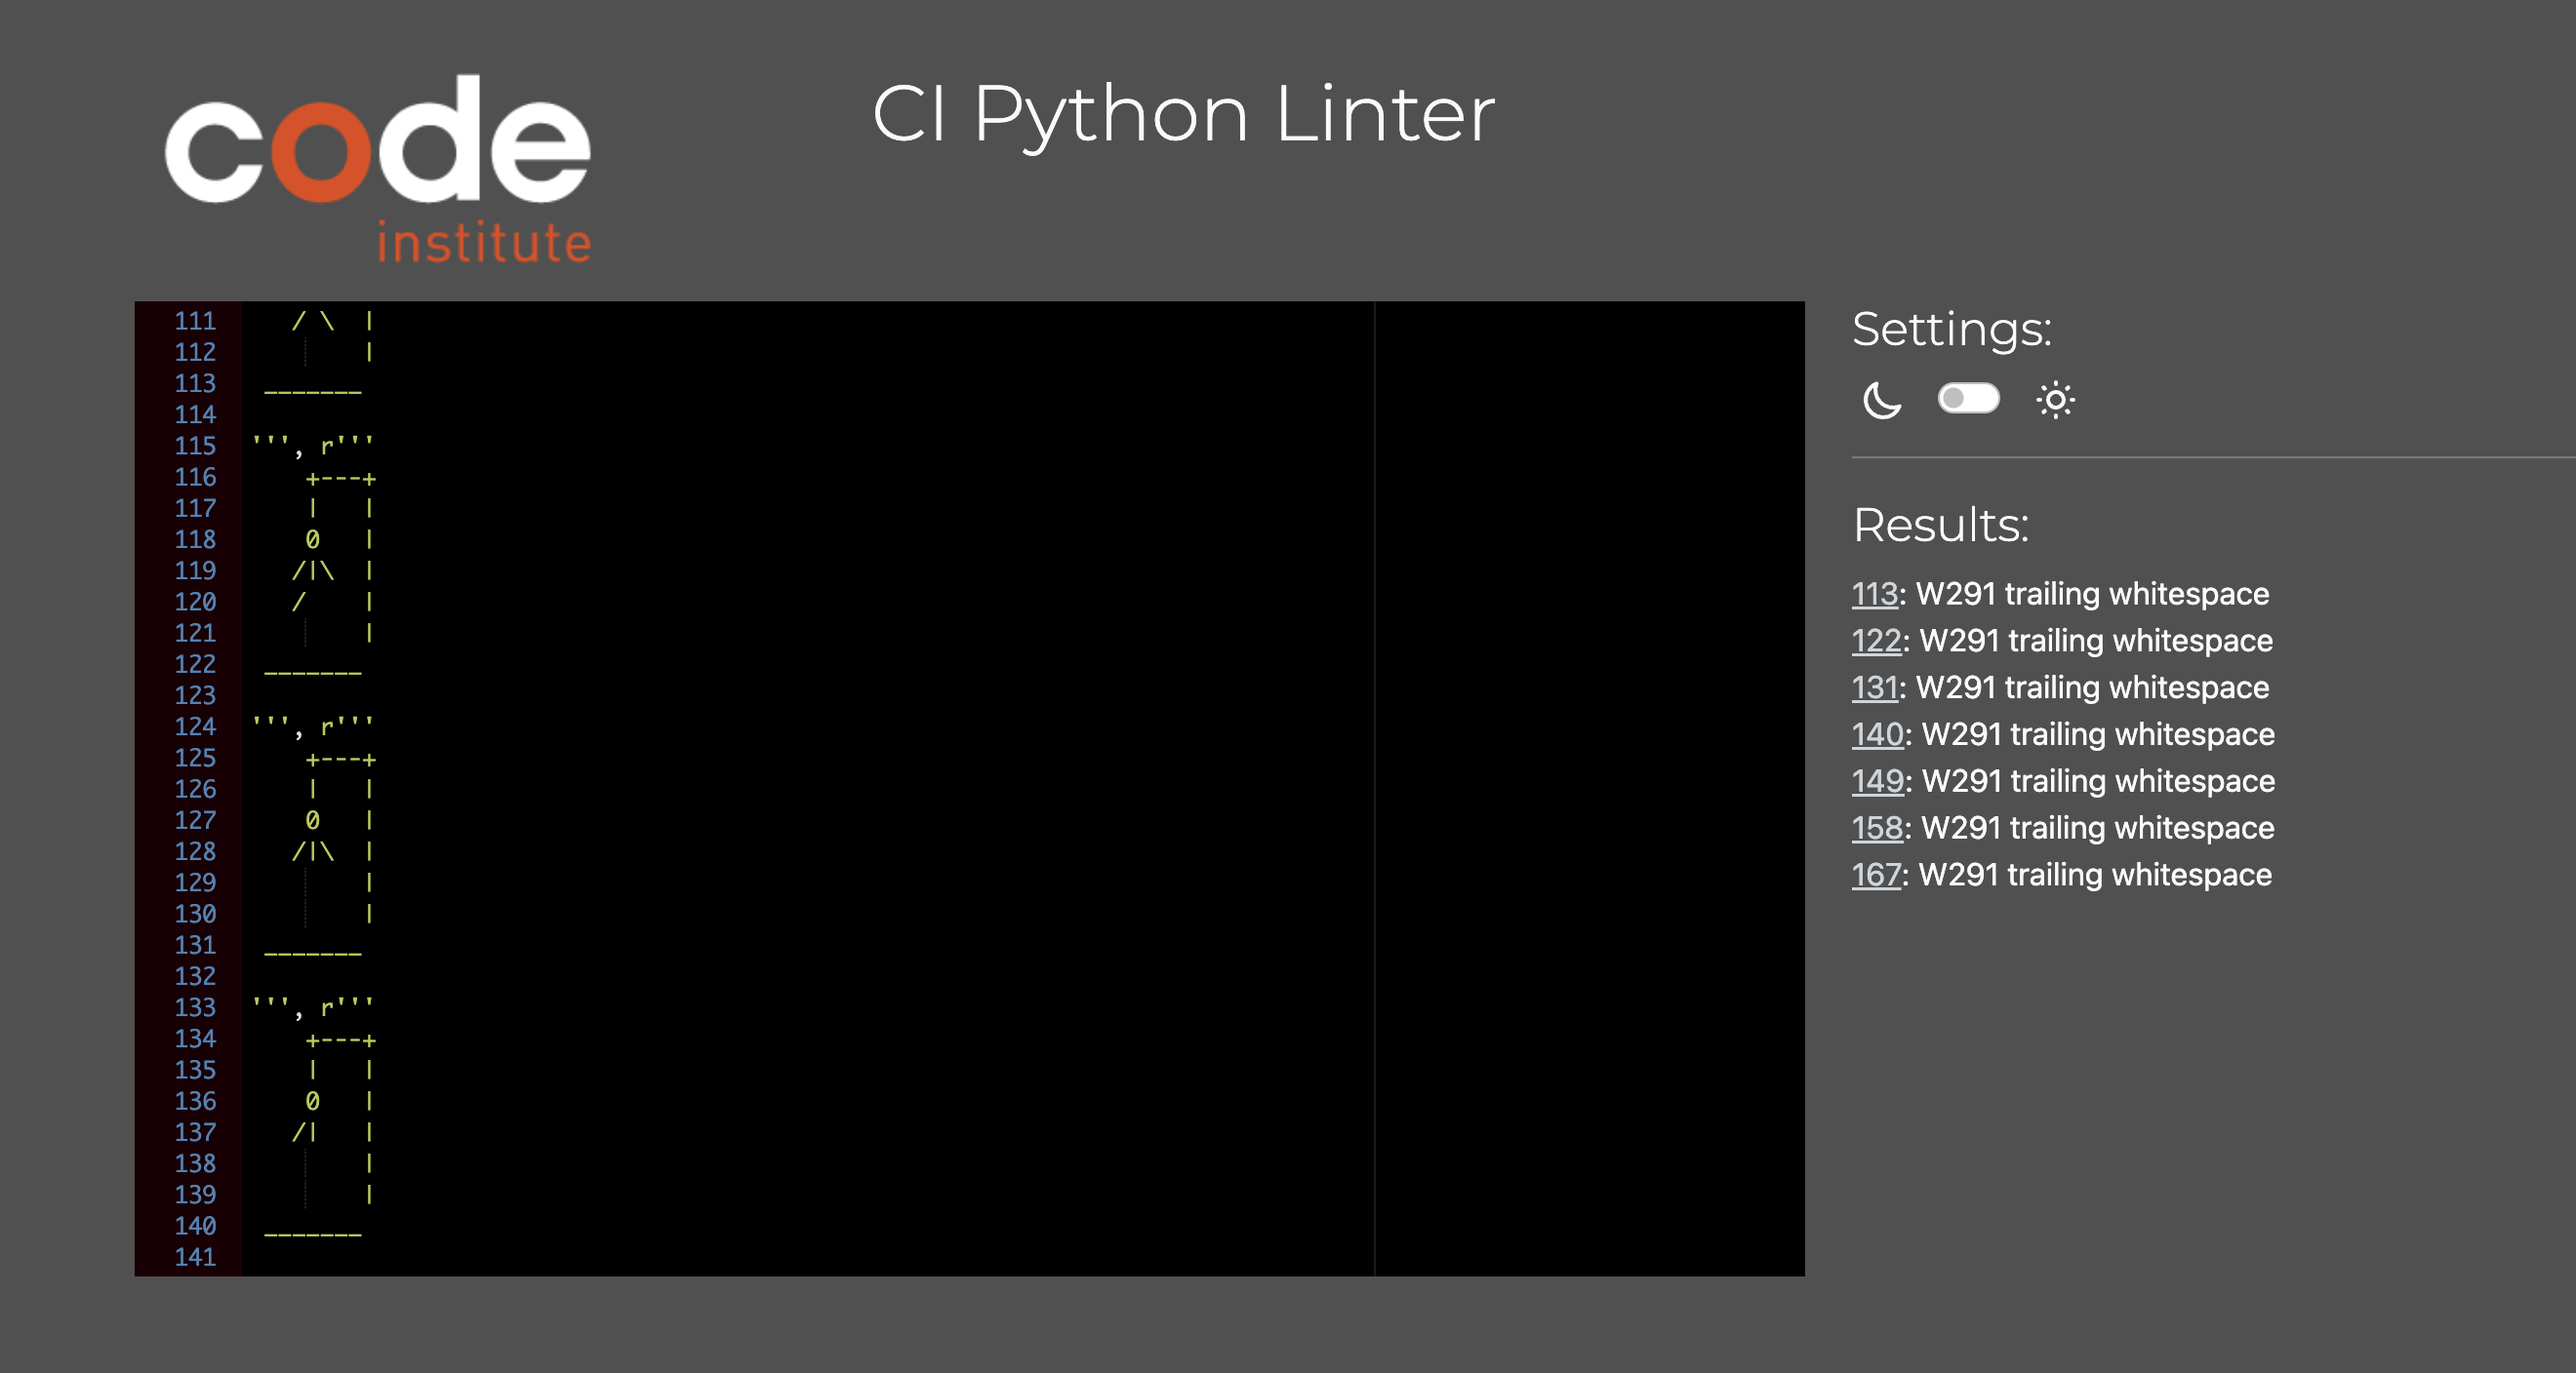
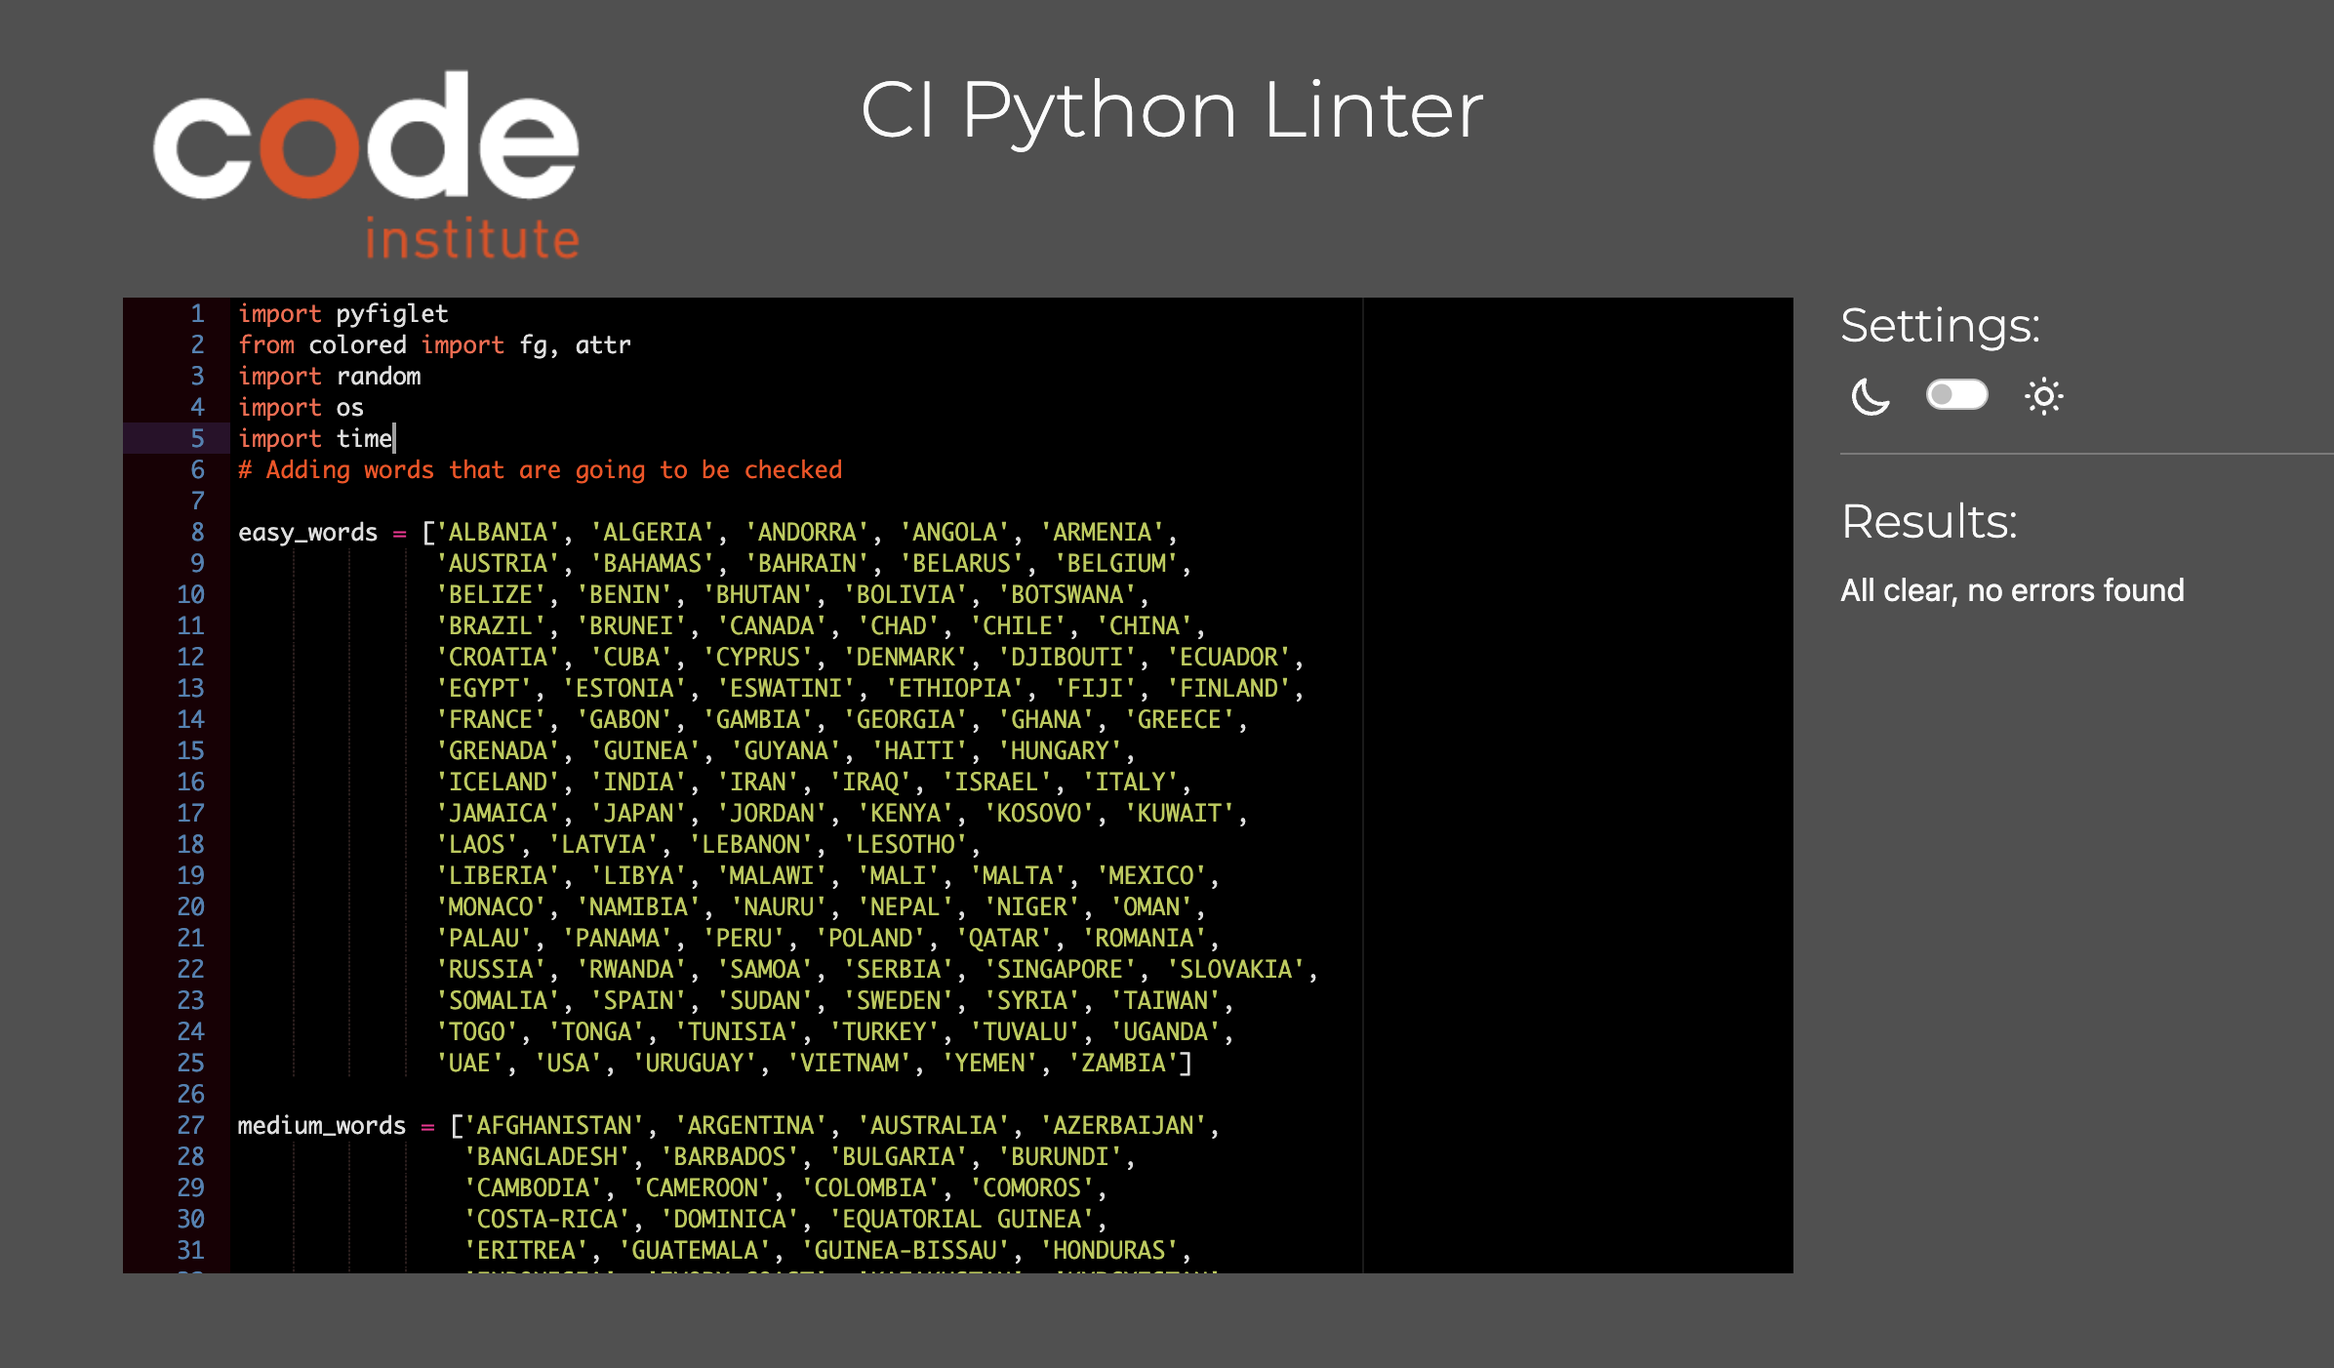
Improvements and fixes

diff --git a/static/index.html b/static/index.html
@@ -2,11 +2,11 @@
 <html>
 
 <head>
-     <link rel="stylesheet" href="assets/styles.css" /> 
+     <link rel="stylesheet" href="assets/css/styles.css" /> 
     <script src="https://cdnjs.cloudflare.com/ajax/libs/socket.io/3.0.4/socket.io.js"
         integrity="sha512-aMGMvNYu8Ue4G+fHa359jcPb1u+ytAF+P2SCb+PxrjCdO3n3ZTxJ30zuH39rimUggmTwmh2u7wvQsDTHESnmfQ=="
         crossorigin="anonymous"></script>
-     <script src="assets/script.js"></script> 
+     <script src="assets/js/script.js"></script> 
     <title>Hangman Game</title>
 </head>
 

diff --git a/README.md b/README.md
@@ -85,7 +85,7 @@ This app was developed on a macbook air desktop running mac OS. Testing was perf
 
 ### PEP8 Code Institute Python Linter Testing
 
-- the only issue is the spaces in the hangman stages section, which cannot be avoided as they must remain in their current positions.
+- All errors were fixed.
 
   ![PEP8 Linter](static/assets/images/CI-Python-Linter.png)
 
